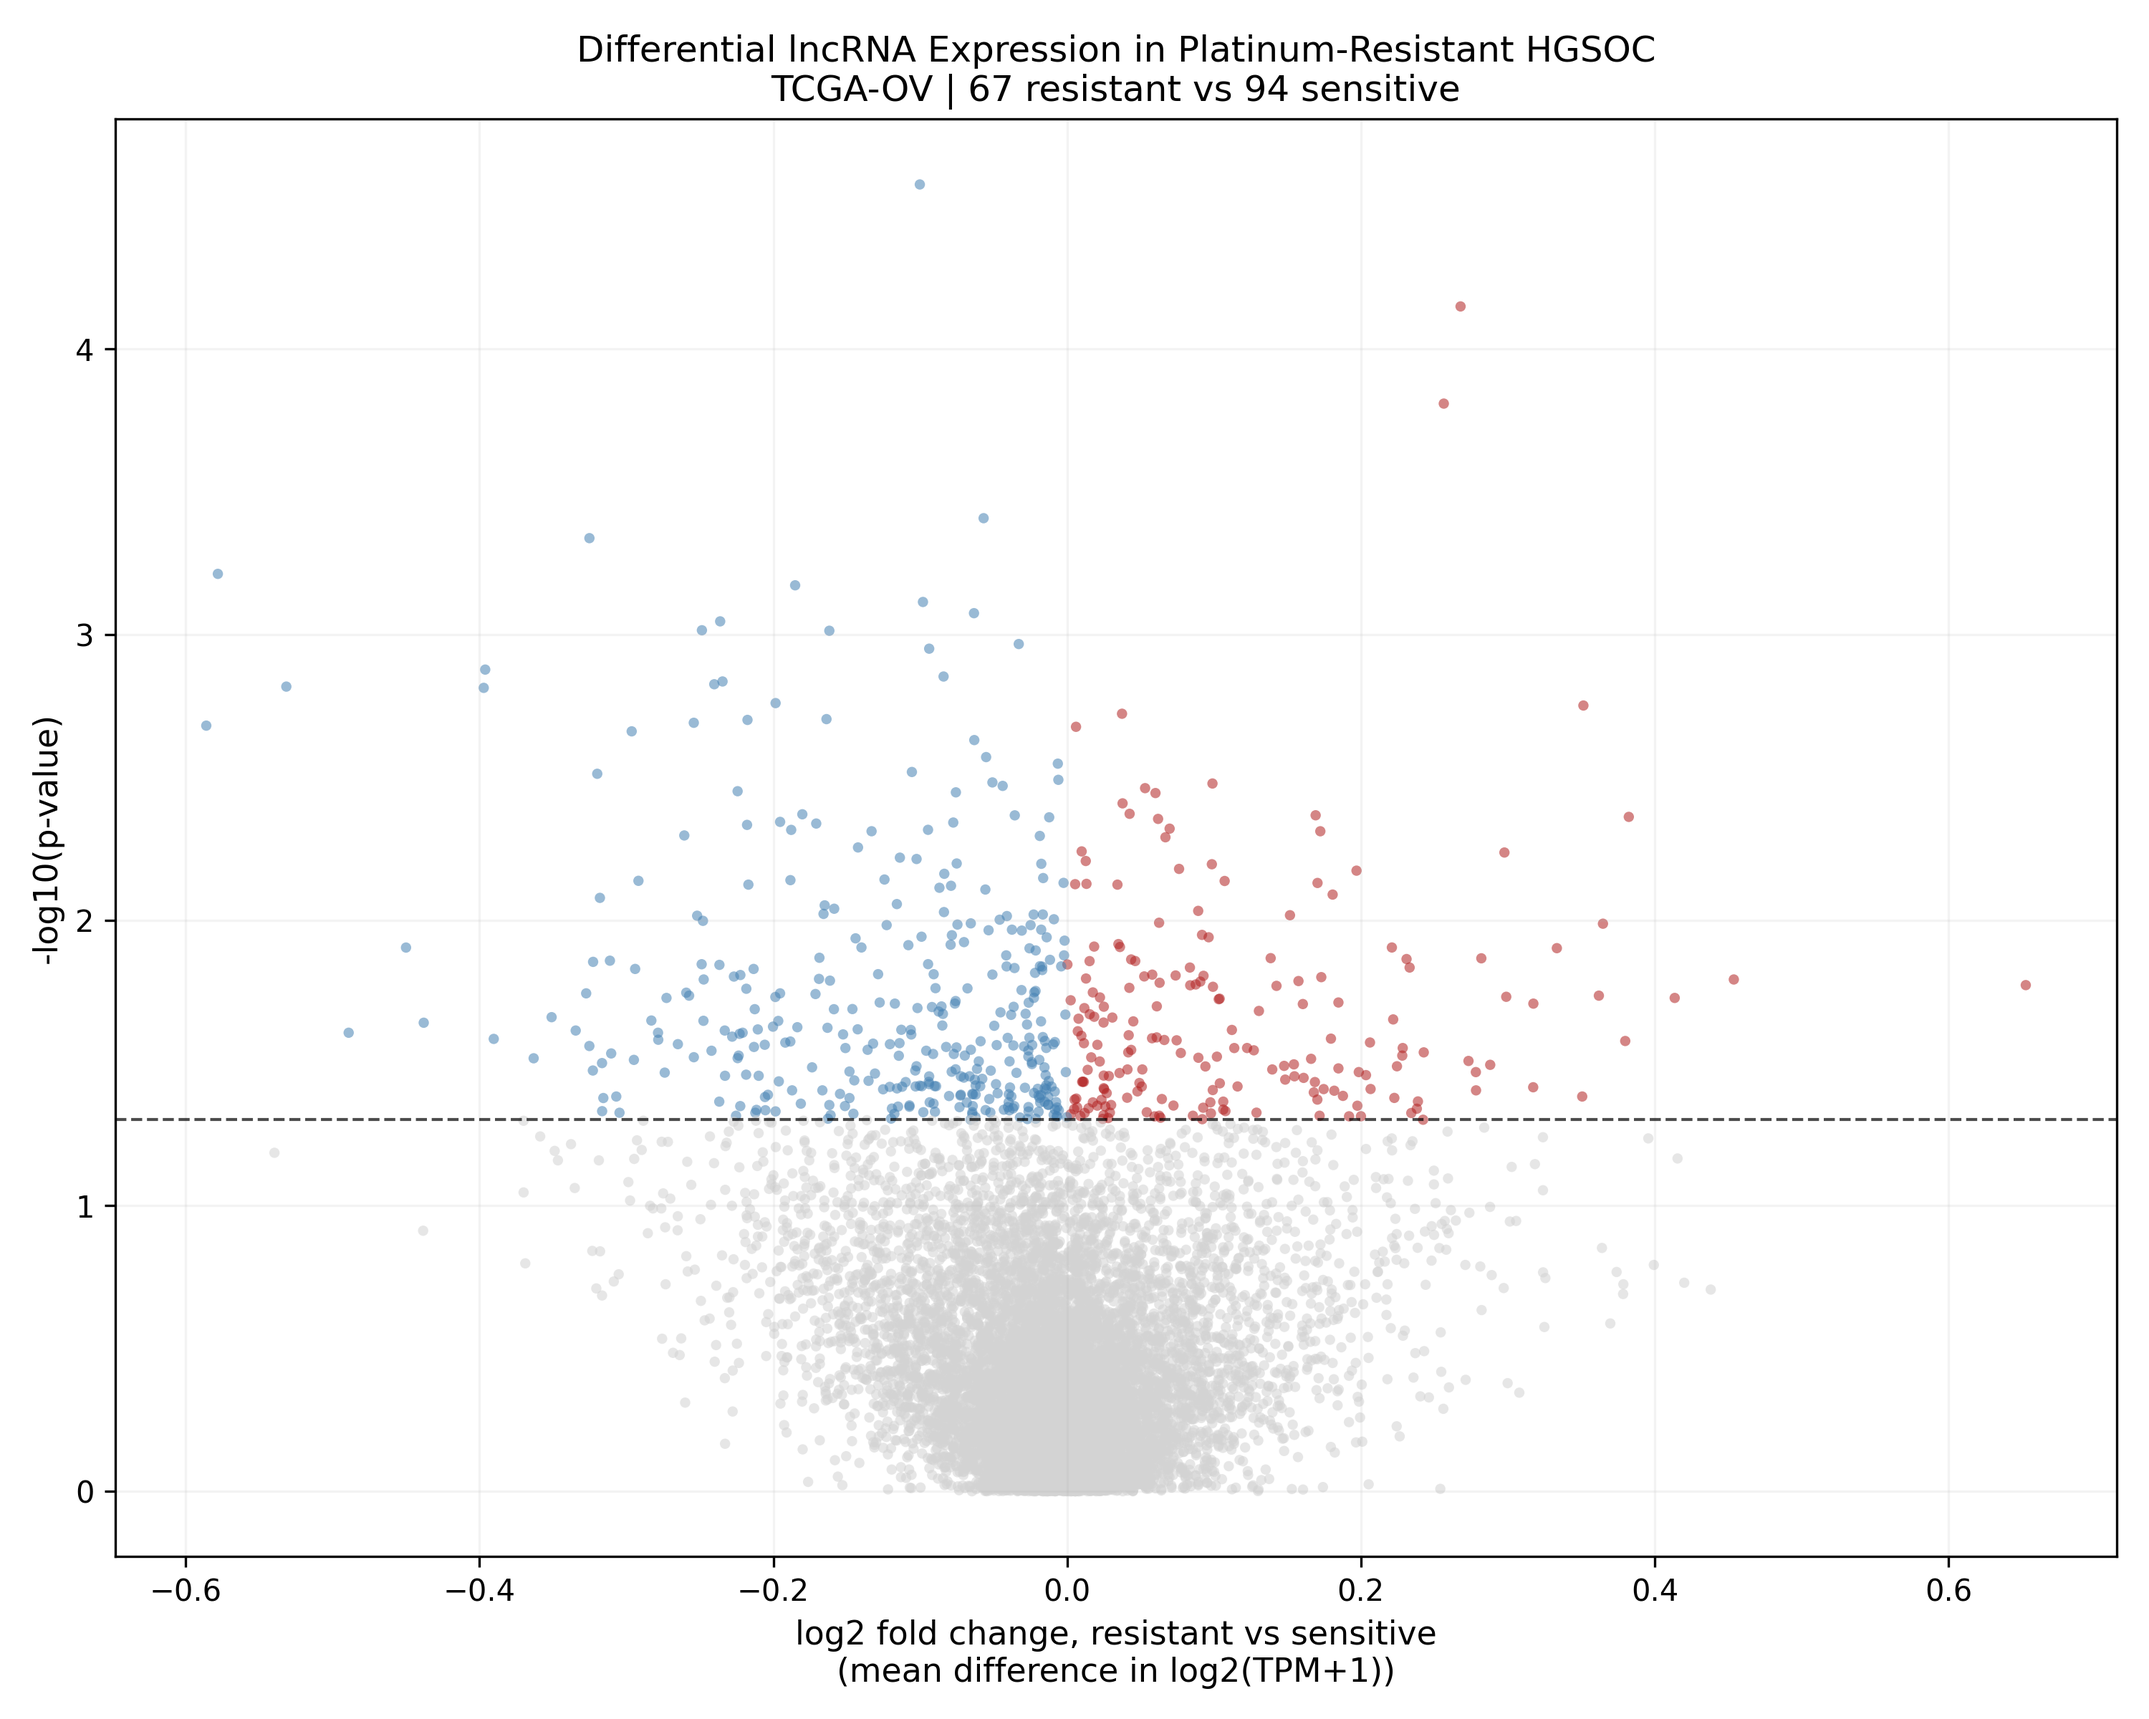
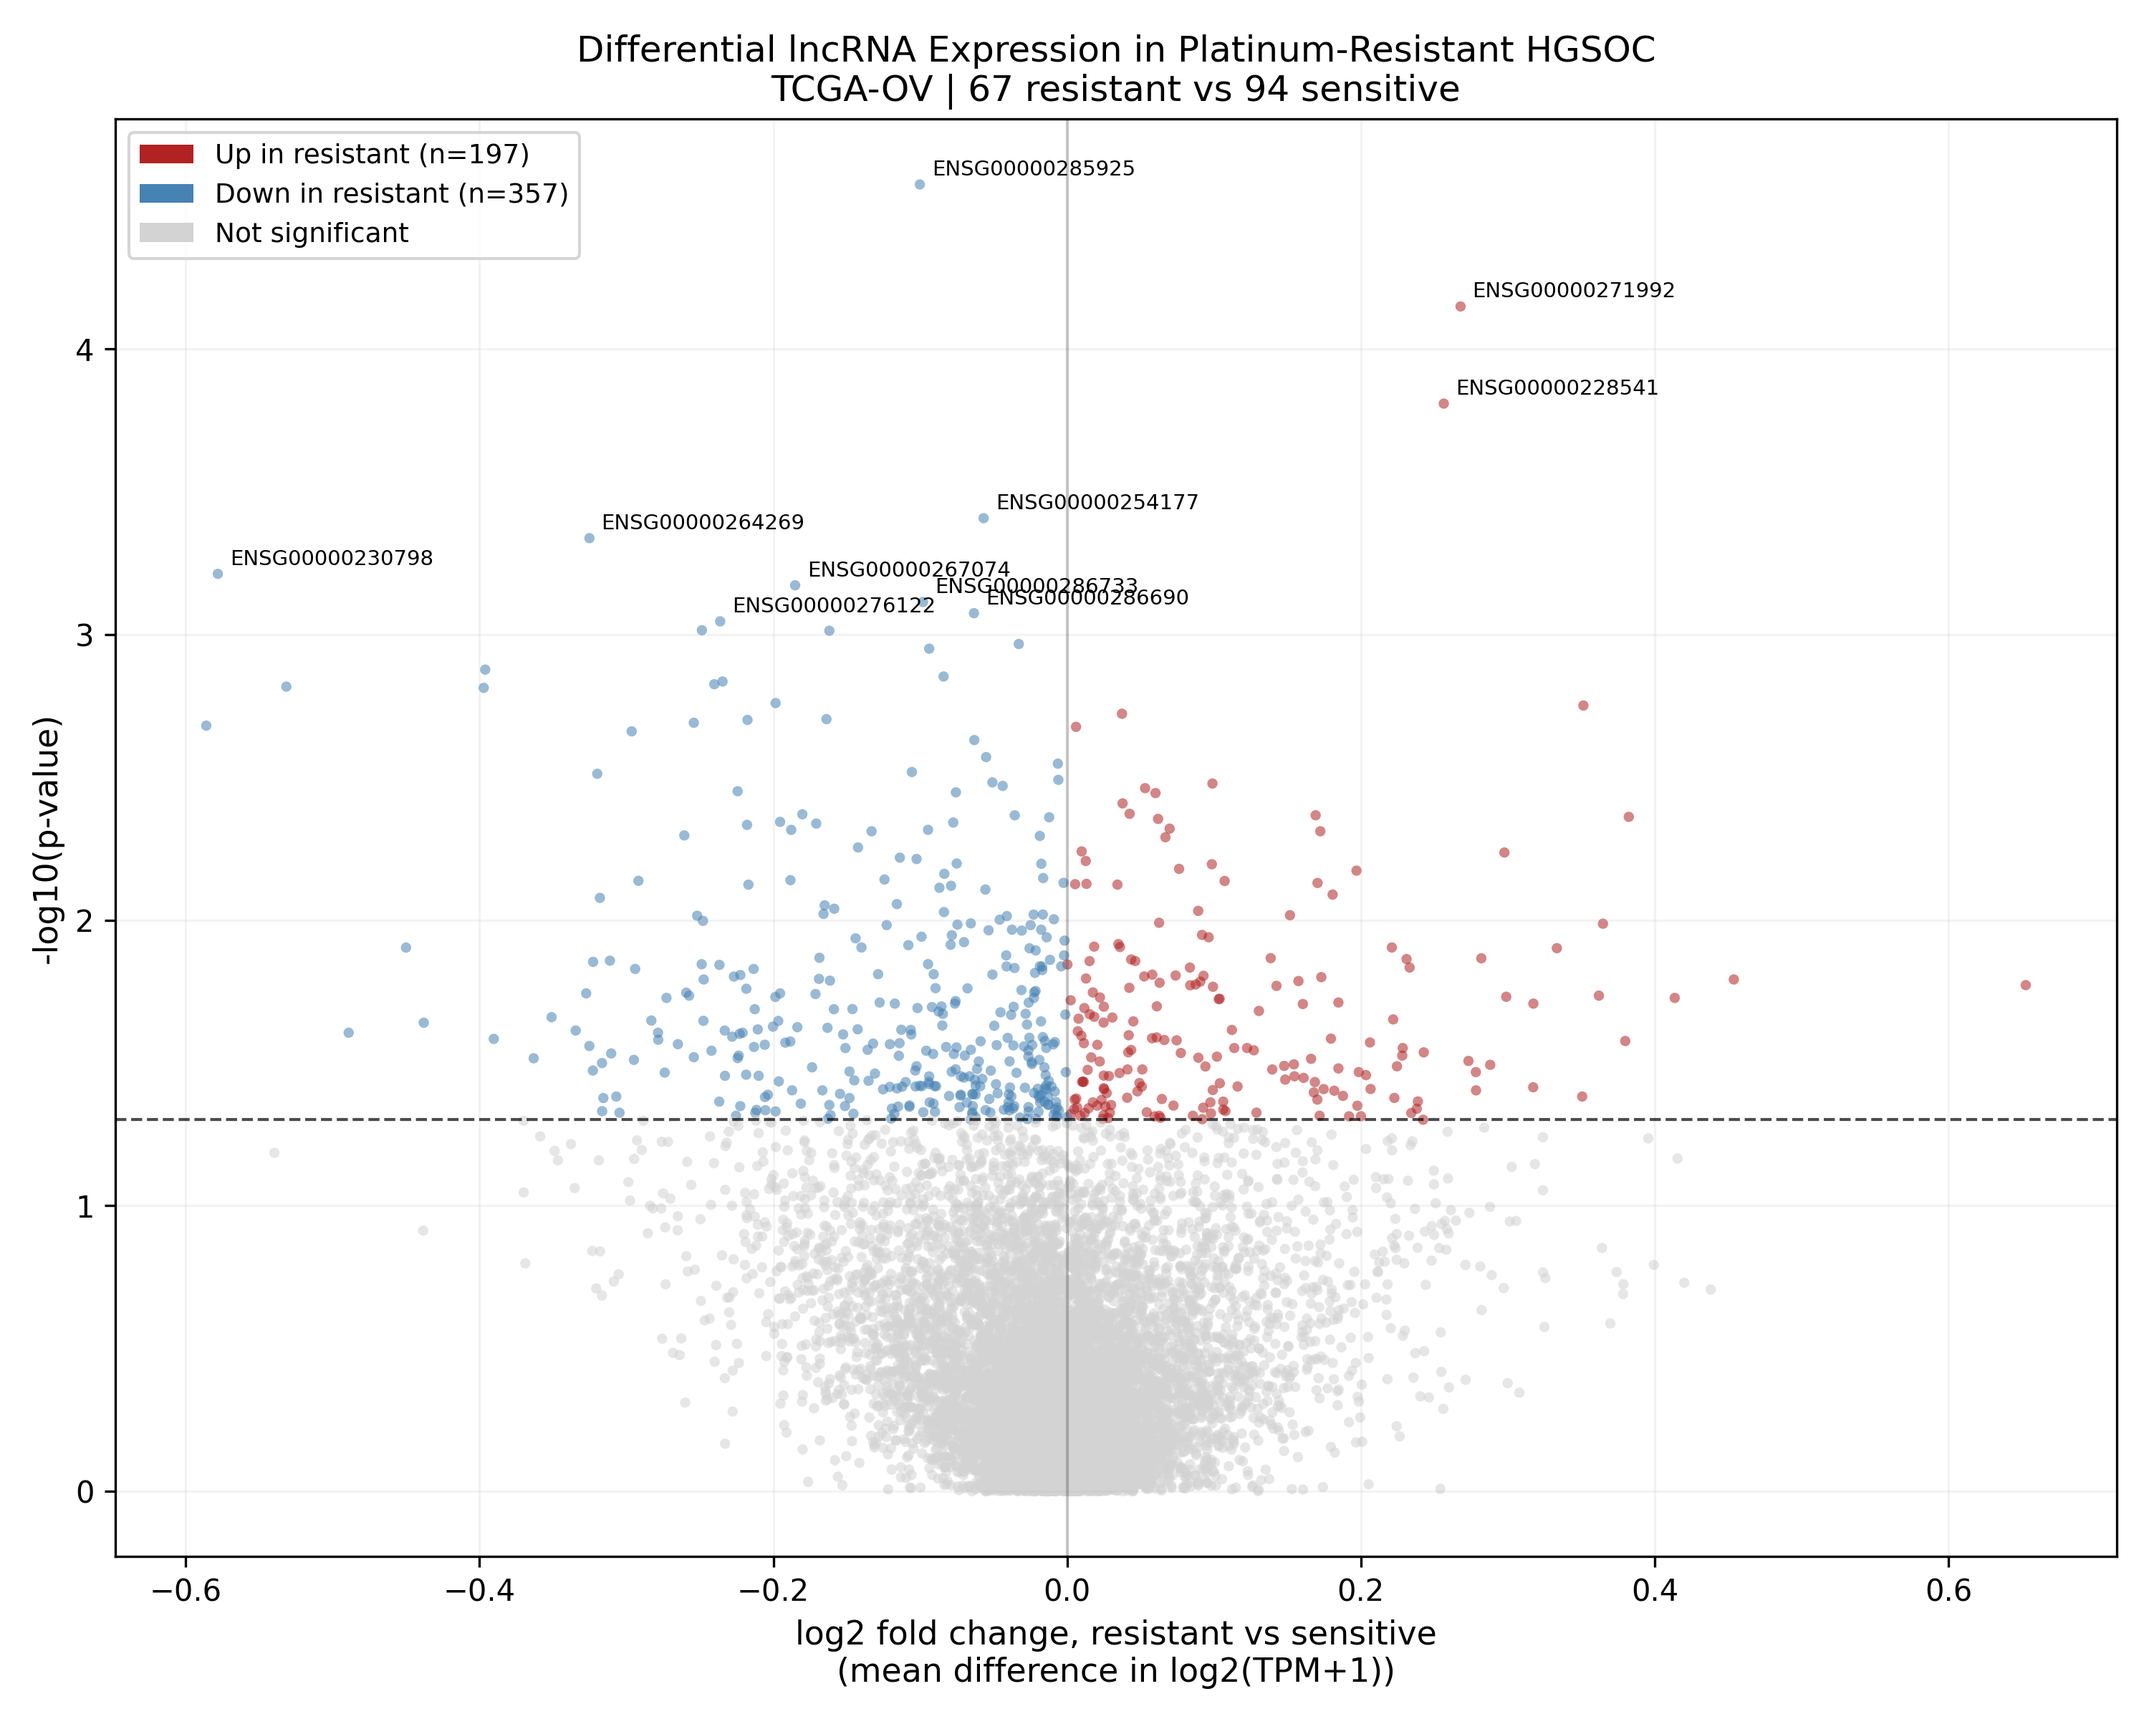
Label the top candidates on the volcano plot
Also adds a legend with the up/down counts so the figure stands on
its own.

diff --git a/01-differential-expression/differential_expression.py b/01-differential-expression/differential_expression.py
@@ -6,7 +6,8 @@ between patients who go on to become platinum-resistant and those who remain
 platinum-sensitive?
 
 Method: Mann-Whitney U per lncRNA, Benjamini-Hochberg FDR correction.
-Output: volcano plot, plus a ranked table of every lncRNA tested.
+Output: volcano plot with the strongest candidates labelled, plus a ranked
+        table of every lncRNA tested.
 
 Run prepare_data.py first.
 
@@ -18,12 +19,16 @@ import os
 import matplotlib.pyplot as plt
 import numpy as np
 import pandas as pd
+from matplotlib.patches import Patch
 from scipy.stats import mannwhitneyu
 from statsmodels.stats.multitest import multipletests
 
 DERIVED_DIR = os.path.join("..", "data", "derived")
 FIGURE_DIR = "figures"
 RESULT_DIR = "results"
+
+# Genes this far from the origin are worth naming on the plot.
+N_LABELLED = 10
 
 
 def load_data():
@@ -102,8 +107,8 @@ def summarize(results):
     return n_up, n_down
 
 
-def plot_volcano(results, resistant_n, sensitive_n):
-    """Volcano plot of effect size against significance."""
+def plot_volcano(results, n_up, n_down, resistant_n, sensitive_n):
+    """Volcano plot, with the most significant lncRNAs labelled by name."""
     significant = results["pvalue"] < 0.05
     upregulated = significant & (results["log2_fold_change"] > 0)
     downregulated = significant & (results["log2_fold_change"] < 0)
@@ -123,6 +128,18 @@ def plot_volcano(results, resistant_n, sensitive_n):
     )
 
     ax.axhline(-np.log10(0.05), color="black", linestyle="--", alpha=0.7, linewidth=1)
+    ax.axvline(0, color="black", linestyle="-", alpha=0.2, linewidth=1)
+
+    # Name the strongest hits so the plot carries information on its own.
+    for _, row in results.head(N_LABELLED).iterrows():
+        ax.annotate(
+            row["gene_id"].split(".")[0],
+            xy=(row["log2_fold_change"], -np.log10(row["pvalue"])),
+            xytext=(4, 3),
+            textcoords="offset points",
+            fontsize=7,
+            color="black",
+        )
 
     ax.set_xlabel(
         "log2 fold change, resistant vs sensitive\n(mean difference in log2(TPM+1))",
@@ -135,6 +152,15 @@ def plot_volcano(results, resistant_n, sensitive_n):
         fontsize=12,
     )
 
+    ax.legend(
+        handles=[
+            Patch(facecolor="firebrick", label=f"Up in resistant (n={n_up})"),
+            Patch(facecolor="steelblue", label=f"Down in resistant (n={n_down})"),
+            Patch(facecolor="lightgrey", label="Not significant"),
+        ],
+        fontsize=9,
+        loc="upper left",
+    )
     ax.grid(alpha=0.15)
 
     fig.tight_layout()
@@ -150,7 +176,7 @@ def main():
 
     expr, clinical = load_data()
     results = run_differential_expression(expr, clinical)
-    summarize(results)
+    n_up, n_down = summarize(results)
 
     result_path = os.path.join(RESULT_DIR, "de_results.csv")
     results.to_csv(result_path, index=False)
@@ -158,6 +184,8 @@ def main():
 
     plot_volcano(
         results,
+        n_up,
+        n_down,
         resistant_n=int((clinical["resistance_tier"] == "Resistant").sum()),
         sensitive_n=int((clinical["resistance_tier"] == "Sensitive").sum()),
     )
